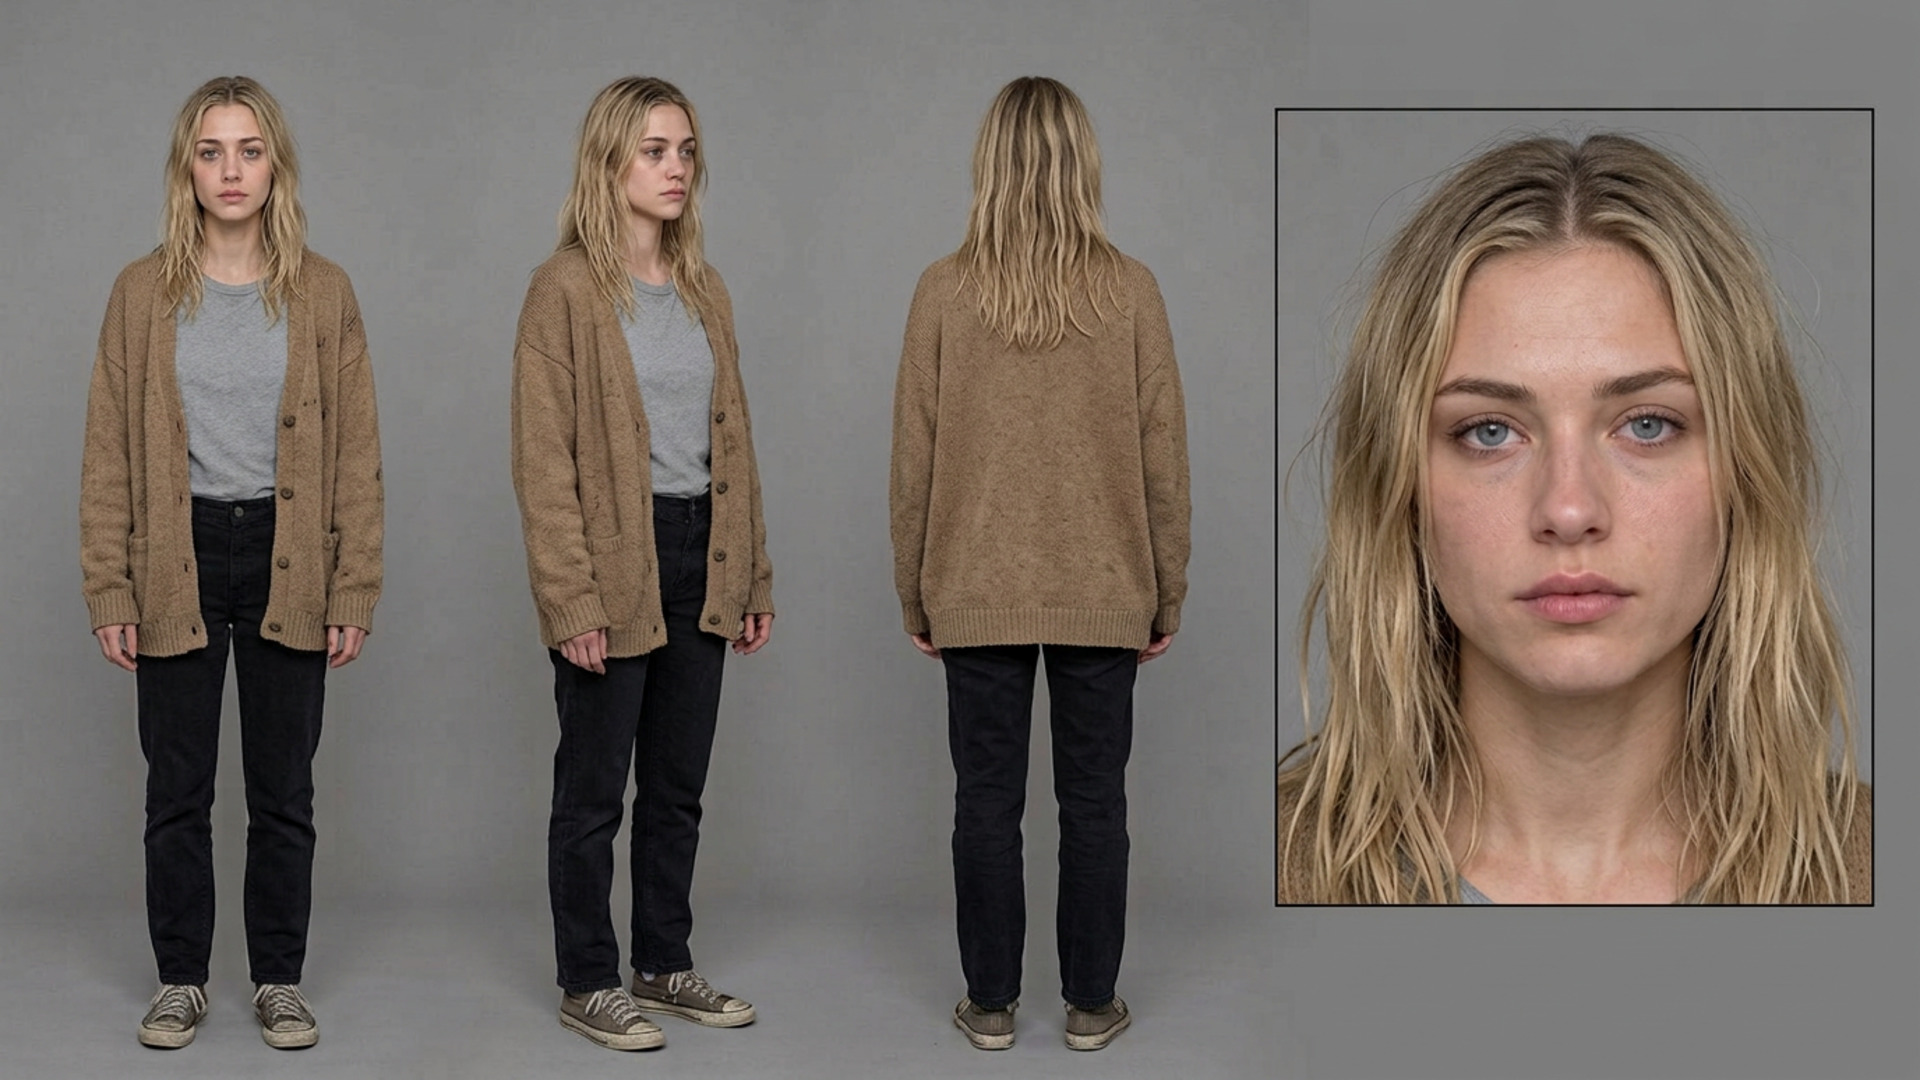
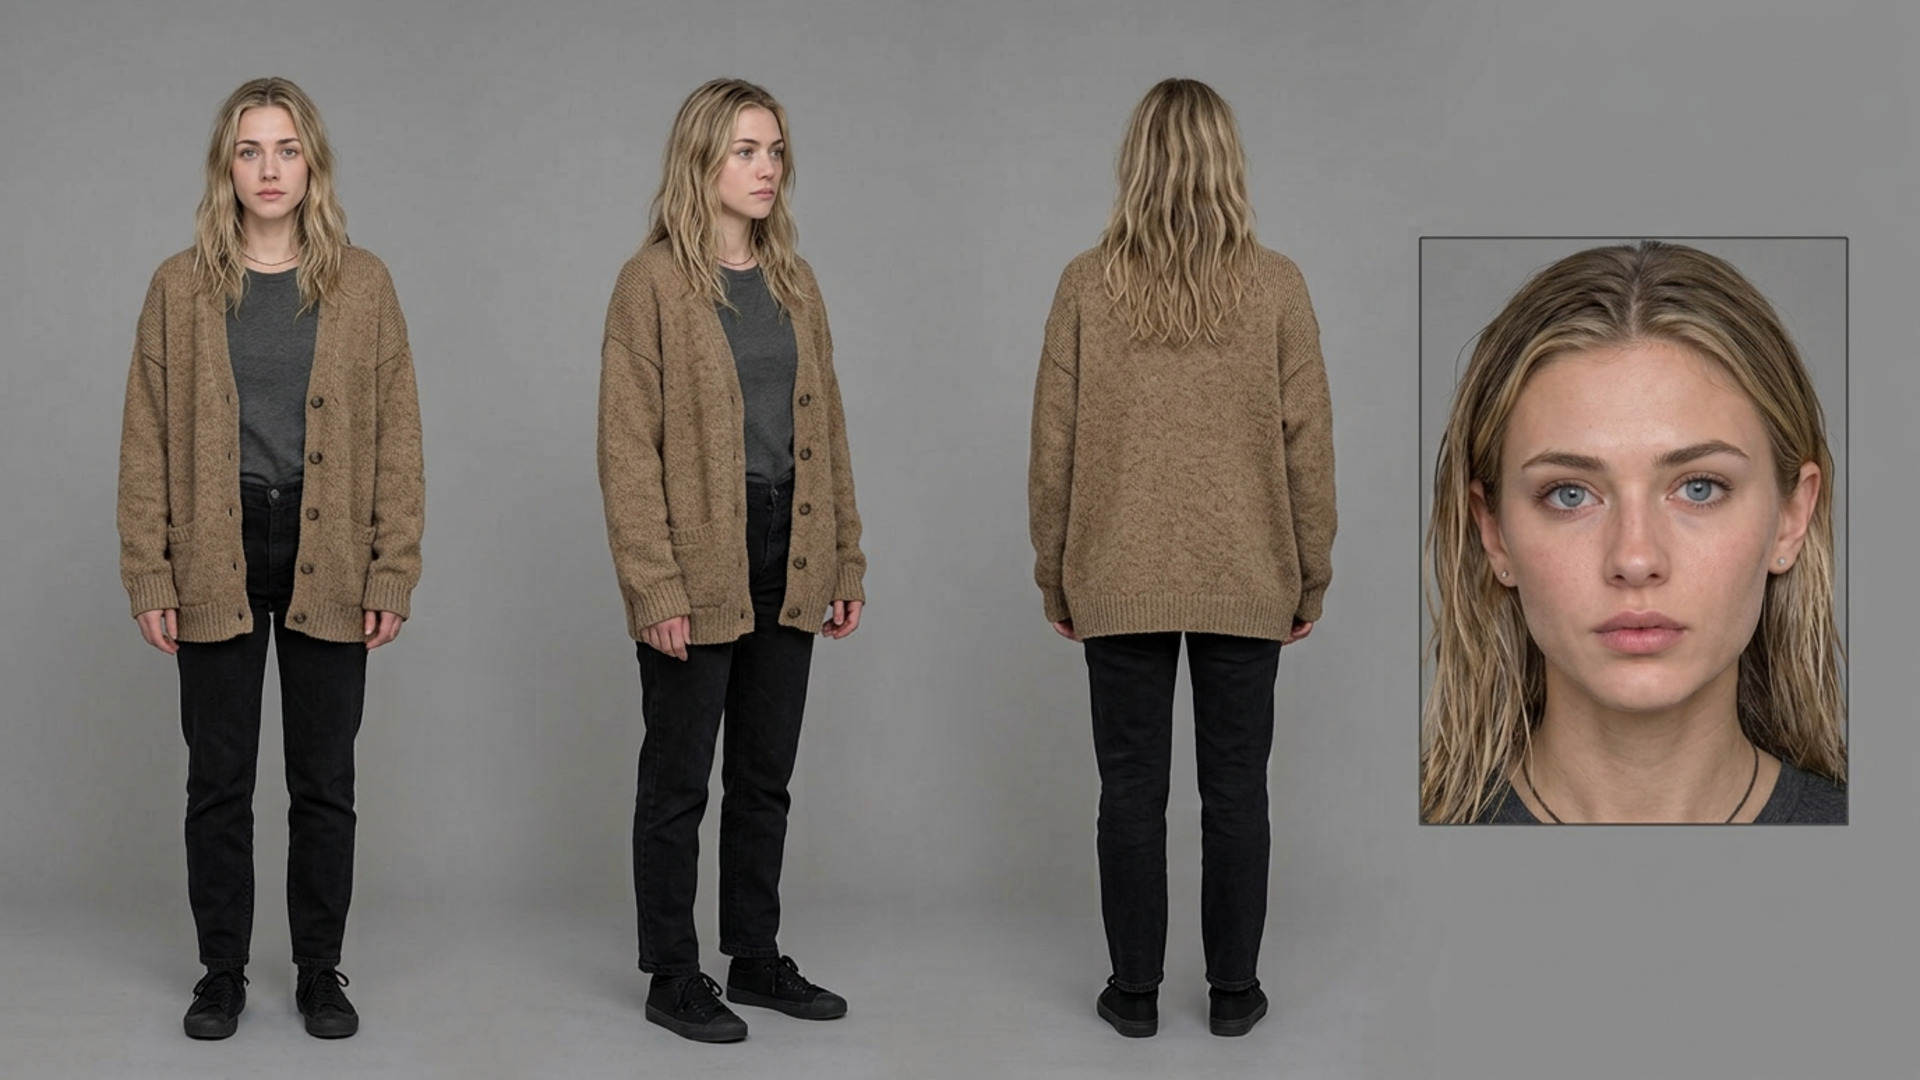
NEONOIRE looks, masks and paper props: three sheets, six prop masters
Ten generation calls, nine installed references; no shot regenerated:

- sheets/vera-look-b.jpg: the wine-red silk dress of the fifteen street
  frames and the lounge, from s72/69 and vera-face.
- sheets/mara-hiding.jpg: the borrowed brown cardigan, unwashed hair,
  no bird clip, from s13/179 and mara-face.
- sheets/masked-man.jpg: knit cap, lower-face mask, radio strap, gloves,
  hands empty, from s1/12 and s40/176.
- props/: jack-investigations-card (four lines, all crisp), daniel-voss-
  clipping (headline and caption verbatim, Daniel the scene-4 photograph's
  man), key-87-tag, kaneko-sign-board, locker-room-sign, service-road-852 -
  clean masters so legible text never drifts; every line read at full size.

One call failed on a stale path (s61 for s67's frame) and was re-listed and
retaken. Board paragraphs name the new sheets (n72, n13, n85); verify asserts
every sheet and master by name at 16:9. Ledger, handoff and README updated;
review sheet installed.

diff --git a/docs/neonoire/handoff.md b/docs/neonoire/handoff.md
@@ -2,7 +2,7 @@
 
 ## Current state — 26 September 2026
 
-The final screenplay is `Neonoire (3).fountain`: **100 scenes**, unchanged. The numbered board covers **all 100 scenes, 269 shots** — the first boarding (1–240) plus coverage (241–269) as of 26 September 2026. **All 269 shot images are on disk; no placeholder slots remain.** All images are full-bleed 16:9, 1920×1080 JPEG. The newest pass is **[looks, masks and paper props](passes/looks-masks-props.md)**: three more sheets — Vera's wine-red dress (`vera-look-b.jpg`), Mara's hiding look (`mara-hiding.jpg`) and the masked men's raid costume (`masked-man.jpg`) — plus six clean prop masters in `props/`: the four-line card, the DANIEL VOSS clipping, the 87 tag, the 金子 sign board, the MONTHLY. YEARLY. NO QUESTIONS. board and the 8:52 sign, every letter read at full size before install. One call died on a stale path (`s61` for `s67`'s frame) and was re-listed and retaken. Before it, the **[cast-sheet pass](passes/cast-sheets.md)**: nine identity sheets in the house layout from ten calls — Kaneko, Okada, Kurose, Mr. and Mrs. Noda, the repairman, Harada, the young detective, and Vera's Look F (teal peacoat, red clip). The first repairman sheet was discarded for describing him from memory (no glasses, wrong jacket); the retake holds to `s87/124`. Sheets carry faces and garments; scene masters still carry rooms, light and staging. Mara's hiding look remains held to `s13/179-eat.jpg`. Before it, [consistency retakes two](passes/consistency-retakes-2.md) closed the pole, the strap, the wood, the card, the headcount and the rail, and [consistency retakes one](passes/consistency-retakes-1.md) locked the third-stool motif, the 金子 sign, Mr. Noda behind the counter and Jack's hands at 48. Review sheets are one command: `npm run review:neonoire -- <out.jpg> s65 ...`.
+The final screenplay is `Neonoire (3).fountain`: **100 scenes**, unchanged. The numbered board covers **all 100 scenes, 269 shots** — the first boarding (1–240) plus coverage (241–269) as of 26 September 2026. **All 269 shot images are on disk; no placeholder slots remain.** All images are full-bleed 16:9, 1920×1080 JPEG. The newest pass is the **sheets-integration pass**: the eight recurring cast cards in the bundle now point at their identity sheets instead of scene frames (`plan.mjs` sheet params; the scene-frame overrides are gone), the continuity board `neonoire-look-cast` is retitled "Continuity — the cast and their looks" and carries the nine cast sheets plus **Vera's Look F** and **Mara's hiding look** (sheeted this pass from `s13/179-eat.jpg` and `mara-face.jpg`: borrowed oatmeal cardigan, grey tee, no clip). Scene masters still carry rooms, light and staging; sheets carry faces and garments. Verify asserts every card's image and the board's looks. Before it, the [cast-sheet pass](passes/cast-sheets.md) delivered the nine sheets, [consistency retakes two](passes/consistency-retakes-2.md) closed the pole, the strap, the wood, the card, the headcount and the rail, and [consistency retakes one](passes/consistency-retakes-1.md) locked the third-stool motif, the 金子 sign, Mr. Noda behind the counter and Jack's hands at 48. Review sheets are one command: `npm run review:neonoire -- <out.jpg> s65 ...`.
 
 ## Note to the next agent — how consistency is kept here
 
@@ -14,17 +14,15 @@ The director's first and lasting request is **scene and character consistency**.
   - Locations: attach the location master, listed in each pass ledger's *Locks*.
 - **Generate each scene's master first, then derive its other shots from that master** (image-to-image). Every derived shot then shares the room, the light and the wardrobe. For before/after pairs (warm and cold at the inn, the stair frame), generate the second from the first, from the same camera position.
 - **Wardrobe by scene range:**
-  - Vera: the original charcoal coat (`sheets/vera.jpg`) up to 71; the wine-red dress in 72–79, sheeted as `sheets/vera-look-b.jpg`; Look C in 83–92; Look D (olive) in 97; Look E (short oatmeal car coat) in 98; Look F (teal peacoat, red clip) in 100, sheeted as `sheets/vera-look-f.jpg`.
+  - Vera: the original charcoal coat (`sheets/vera.jpg`) up to 71; the wine-red dress in 72–79; Look C in 83–92; Look D (olive) in 97; Look E (short oatmeal car coat) in 98; Look F (teal peacoat, red clip) in 100.
   - Jack: always `sheets/jack.jpg`, a **white American**, 48. He is NOT the sisters' father; Daniel Voss is.
-  - Mara: `sheets/mara.jpg` (denim jacket, grey tee). In hiding (13 onward) she wears an old cardigan that isn't hers, and has no bird clip, because Okada has it — sheeted as `sheets/mara-hiding.jpg`.
-  - The masked men: `sheets/masked-man.jpg` (knit cap, lower-face mask, radio strap) over their established frame `s1/12`.
-- **Recurring props,** each with a clean master in `props/` where text must stay legible:
+  - Mara: `sheets/mara.jpg` (denim jacket, grey tee). In hiding (13 onward) she wears an old cardigan that isn't hers, and has no bird clip, because Okada has it.
+- **Recurring props:**
   - The red bird clip: `s1/03`, `s98/154`.
-  - The key with its round 87 tag: `s1/16`, master `props/key-87-tag.jpg`.
-  - The hand-painted noodle-shop sign: `s86/121`, master `props/kaneko-sign-board.jpg`, and as one board — cream wood, the two brush kanji 金子, a painted bowl, per shot 185's sketchbook — in scene 100 (`s100/158`) and at the lunch counter (`s56/223`) since the retake pass of 26 September 2026.
+  - The key with its round 87 tag: `s1/16`.
+  - The hand-painted noodle-shop sign: `s86/121`, and as one board — cream wood, the two brush kanji 金子, a painted bowl, per shot 185's sketchbook — in scene 100 (`s100/158`) and at the lunch counter (`s56/223`) since the retake pass of 26 September 2026.
   - The pale blue umbrella: `s4/34`.
   - The family photograph: `s4/35`.
-  - The card: master `props/jack-investigations-card.jpg` (four lines, all crisp); the clipping: `props/daniel-voss-clipping.jpg`; the locker sign: `props/locker-room-sign.jpg`; the 8:52 service-road sign: `props/service-road-852.jpg`; plus the cassette label and the notebook cover.
 - **Re-list reference filenames with `ls` immediately before generating.** Parallel passes rename assets (shot numbers shift when a scene gains a frame); a stale path costs a generation and returns "Source image not found".
 - **Before starting a turn, sync git. Committing problems seen in this sandbox, and their fix.** Symptom: at the start of a turn the local checkout is silently reset to the session's branch point (commit `93dc0c1`) — `git status` then shows a pile of stale modifications, `git log` is missing every commit you pushed, and `node_modules` has vanished. Nothing is actually lost: the pushed branch on origin still holds all of it. **Fix, in this order:** `git fetch origin arena/01a0dd5d-playframe`; compare `git rev-parse HEAD` with `git rev-parse FETCH_HEAD`; if they differ, `git reset --hard FETCH_HEAD`; then `npm ci --silent` before running any script. That branch holds the coverage pass (shots 241–250). The older recovery branch `arena/01a0da06-playframe` stops at shot 240. This has happened five times (latest: 26 September 2026) and the reset protocol has recovered everything each time. **Never force-push** over it, and never re-generate images that already exist on the pushed branch — check `public/images/neonoire/` first. Equally: **commit and push before ending a turn**; uncommitted work does not survive the sandbox reset, pushed work always does.
 - **Review every image at full size before installing it** (see rule 2 below): identity, wardrobe, prop, count, direction, and left/right against the neighbouring shots. Past failures were:

diff --git a/docs/neonoire/passes/sheets-integration.md b/docs/neonoire/passes/sheets-integration.md
@@ -1,0 +1,22 @@
+# NEONOIRE — sheets-integration pass: the cards point at the sheets (26 September 2026)
+
+**Scope:** one generation (Mara's hiding-look sheet) plus the workspace integration that makes the cast-sheet pass load-bearing. No shot was regenerated; no numbering moved; the cast count stays 18.
+
+## What changed
+
+- **`scripts/neonoire/plan.mjs`:** the eight recurring cast entries take their `sheet` parameter — `kaneko`, `okada`, `kurose`, `mr-noda`, `mrs-noda`, `repairman`, `harada`, `young-detective` — so their cast cards carry `/images/neonoire/sheets/<name>.jpg`. The eight `characters.find(...).image = "<scene frame>"` overrides are deleted. Daniel keeps the family photograph and Mrs. Sakai her scene-29 frame by design; the old man, the masked men and the journalist stay unnamed and imageless.
+- **Descriptions** that said "No identity sheet yet: held to the scene NN master" now say "Sheeted 26 September 2026; the scene NN master still carries the room" — the division of labour is stated on the card itself: sheets carry faces and garments, masters carry rooms, light and staging.
+- **The continuity board** `neonoire-look-cast` is retitled **"Continuity — the cast and their looks"** and gains ten items: Vera's Look F, Mara's hiding look, and the eight cast sheets, each captioned with its garment line and its master. The Look E caption no longer says Look F awaits a master.
+- **`sheets/mara-hiding.jpg`** (the one generation): Mara 24 in the hiding look of scenes 13–17 — an old oatmeal-brown cardigan that isn't hers over the grey tee, black jeans, sneakers, **no bird clip** — three views on mid-grey plus a face crop, reviewed against `s13/179-eat.jpg` and `sheets/mara-face.jpg` before install. Board paragraphs in n13 and n68 now name it; her default look remains `sheets/mara.jpg`.
+
+## Locks
+
+- Verify asserts, by id, that the eight cast cards' `image` equals their sheet path — a future pass that points a card back at a scene frame fails the build.
+- Verify asserts the continuity board carries `vera-look-f`, `mara-hiding`, `kaneko` and `repairman`, and that all ten new sheet JPEGs are 1920×1080.
+- `check:assets` picks the sheets up through the bundle's character images and board items.
+
+## Honest caveats carried
+
+- The masked men, the barber, the prosecutors, the family and the violin girl still have no sheets; a mask or a crowd fixes what a sheet would.
+- Face crops remain leads-only (Mara, Vera, Jack); the recurring cast carry their face inset inside the sheet.
+- The repairman's forehead loupe stays a bench prop of `s87/124`, not part of his sheet.

diff --git a/README.md b/README.md
@@ -45,7 +45,7 @@ The **final feature screenplay** — 100 numbered scenes — is an editable work
   counting towards, and what a clock that runs a minute fast is doing in a police station are all left
   where the draft leaves them.
 
-**Latest session — looks, masks and paper props:** three more sheets — **Vera's wine-red dress** (`vera-look-b.jpg`, the costume of the fifteen street frames), **Mara's hiding look** (`mara-hiding.jpg`, borrowed cardigan, no clip) and **the masked men's raid costume** (`masked-man.jpg`) — plus six clean prop masters in `props/`: the four-line card, the DANIEL VOSS clipping, the 87 tag, the 金子 sign board, the MONTHLY. YEARLY. NO QUESTIONS. board and the 8:52 service-road sign, every letter read at full size before install. One call died on a stale reference path and was re-listed and retaken, per the house rule. See the [ledger](docs/neonoire/passes/looks-masks-props.md) and [review sheet](public/images/neonoire/reviews/looks-masks-props-pass-4.jpg).
+**Latest session — sheets integrated:** the eight recurring cast cards in the bundle now point at their **identity sheets** instead of scene frames, and the continuity board — retitled *Continuity — the cast and their looks* — carries the eight cast sheets plus **Vera's Look F** and the one new generation, **Mara's hiding look** (borrowed oatmeal cardigan, grey tee, no bird clip, reviewed against `s13/179-eat`). Scene masters still carry rooms, light and staging; sheets carry faces and garments; verify asserts every card's image and the board's looks, so a future pass that points a card back at a scene frame fails the build. See the [integration ledger](docs/neonoire/passes/sheets-integration.md).
 
 **Previous session — the cast-sheet pass:** with the board complete and two retake passes closed, the session's ten generations went to identity sheets in the house layout — three full-body views on mid-grey plus a face crop — for **Kaneko, Okada, Kurose, Mr. and Mrs. Noda, the radio repairman, Harada and the young detective**, plus **Vera's Look F** (teal peacoat, red bird clip), the film's last costume. The first repairman sheet was discarded because it described him from memory instead of from `s87/124`; the retake carries his round glasses and grey cardigan. Every sheet is asserted 16:9 in verify. See the [cast-sheet ledger](docs/neonoire/passes/cast-sheets.md) and [review sheet](public/images/neonoire/reviews/cast-sheets-pass-3.jpg).
 

diff --git a/docs/neonoire/scenes/n72-hotel-lounge.md b/docs/neonoire/scenes/n72-hotel-lounge.md
@@ -6,7 +6,7 @@ The [screenplay page](../screenplay/n72-hotel-lounge-night.md) is unchanged. Thi
 
 Two new shots, **69–70**, 1920×1080, full-bleed 16:9. Normal 50mm lenses, low **level** camera, no tracking or push-in. The rare frontal face shot is earned by the call, not a beauty-commercial look. Warm amber/olive colour rather than black and white. Both images are generated in the first ten-image revision session.
 
-Vera matches `sheets/vera-face.jpg`, and her wine-red silk dress is sheeted since the looks-and-props pass of 26 September 2026 as `sheets/vera-look-b.jpg`. She is pretty here: dry groomed hair, carefully applied clean mascara/liner and rose-red lipstick. Shock does not prematurely ruin her makeup. Her mother's wine-red silk dress has broad straps, a modest cowl neckline and a calf-length bias-cut skirt; both low red court shoes remain on. The rain changes this only in scene 73. `s72/69-the-wait.jpg` is the new hotel/wardrobe master, also used for scene 75's empty lounge.
+Vera matches `sheets/vera-face.jpg`. She is pretty here: dry groomed hair, carefully applied clean mascara/liner and rose-red lipstick. Shock does not prematurely ruin her makeup. Her mother's wine-red silk dress has broad straps, a modest cowl neckline and a calf-length bias-cut skirt; both low red court shoes remain on. The rain changes this only in scene 73. `s72/69-the-wait.jpg` is the new hotel/wardrobe master, also used for scene 75's empty lounge.
 
 Stable IDs 85–86 are new; the displayed board numbers are 69–70. Older frame IDs and asset filenames are preserved so existing shot links do not silently become different scenes.
 

diff --git a/docs/neonoire/scenes/n85-hive-passages.md b/docs/neonoire/scenes/n85-hive-passages.md
@@ -9,7 +9,7 @@ Grammar: the Hive's corridors are too narrow for anything but single file. The b
 
 ## Frame format — 26 September 2026
 
-Both shots (121–122) are **16:9, 1920×1080, full-bleed**. This is the first boarding of the Hive's passages. They were designed from `keys/06-the-block.jpg`: plywood, corrugated metal and old tile, pipes and wires overhead, laundry, plants and a bicycle, lit by bare bulbs and open doorways. The passage master is `s85/119-single-file.jpg`, and scene 88 uses the same passage and camera. **The masked men** follow `s1/12-masked-man-radio.jpg`, and are sheeted since the looks-and-props pass of 26 September 2026 as `sheets/masked-man.jpg`: black clothes, black lower-face masks under a black knit cap, gloves, earpieces and a radio strap; the film never shows a face under the masks. These are AI-generated draft studies, not approved coverage.
+Both shots (121–122) are **16:9, 1920×1080, full-bleed**. This is the first boarding of the Hive's passages. They were designed from `keys/06-the-block.jpg`: plywood, corrugated metal and old tile, pipes and wires overhead, laundry, plants and a bicycle, lit by bare bulbs and open doorways. The passage master is `s85/119-single-file.jpg`, and scene 88 uses the same passage and camera. **The masked men** follow `s1/12-masked-man-radio.jpg`: black clothes, black lower-face masks, gloves and earpieces; the film never shows a face under the masks. These are AI-generated draft studies, not approved coverage.
 
 ---
 

diff --git a/docs/neonoire/scenes/n13-hive-storeroom-night.md b/docs/neonoire/scenes/n13-hive-storeroom-night.md
@@ -9,7 +9,7 @@ Grammar: we don't see the Hive whole yet. Only this: flour, one bulb, and a phon
 
 ## Frame format — 26 September 2026
 
-All three shots (181–183) are **16:9, 1920×1080, full-bleed**, numbered in boarding order. The room follows `s84/115-the-storeroom.jpg`. **Mara** in hiding is sheeted since the looks-and-props pass of 26 September 2026 as `sheets/mara-hiding.jpg` (an old brown cardigan that isn't hers, no clip), over `sheets/mara.jpg` for her face. **Kaneko** is held to `s86/123-fifty-years.jpg`. The key follows `s1/16-the-key.jpg`, with its prop master `props/key-87-tag.jpg`. Every image passed the standing perspective check, or carries its flaw below. These are AI-generated draft studies, not approved coverage.
+All three shots (181–183) are **16:9, 1920×1080, full-bleed**, numbered in boarding order. The room follows `s84/115-the-storeroom.jpg`. **Mara** in hiding is sheeted as `sheets/mara-hiding.jpg` since 26 September 2026 (an old brown cardigan that isn't hers, no clip), her default look remaining `sheets/mara.jpg`. **Kaneko** is held to `s86/123-fifty-years.jpg`, now sheeted as `sheets/kaneko.jpg`. The key follows `s1/16-the-key.jpg`. Every image passed the standing perspective check, or carries its flaw below. These are AI-generated draft studies, not approved coverage.
 
 ---
 

diff --git a/docs/neonoire/scenes/n68-rice-balls-for-the-car.md b/docs/neonoire/scenes/n68-rice-balls-for-the-car.md
@@ -21,4 +21,4 @@ LIGHT: Practical night
 TIME: 10
 ID: neonoire-shot-237
 IMAGE: 235-rice-balls-for-the-car.jpg
-NOTE: The storeroom follows s25/200-the-number-114.jpg; Kaneko is held to s86/123-fifty-years.jpg and Mara to sheets/mara.jpg in the borrowed coat over the brown cardigan. The parcel is rice balls in newspaper; the cloth bag carries the toothbrush, the cardigan and the torn sketchbook pages. The stools she is told to sit on are the third stool's.
+NOTE: The storeroom follows s25/200-the-number-114.jpg; Kaneko is held to s86/123-fifty-years.jpg, now sheeted as sheets/kaneko.jpg, and Mara to sheets/mara-hiding.jpg — the borrowed cardigan over the grey tee, no bird clip. The parcel is rice balls in newspaper; the cloth bag carries the toothbrush, the cardigan and the torn sketchbook pages. The stools she is told to sit on are the third stool's.
